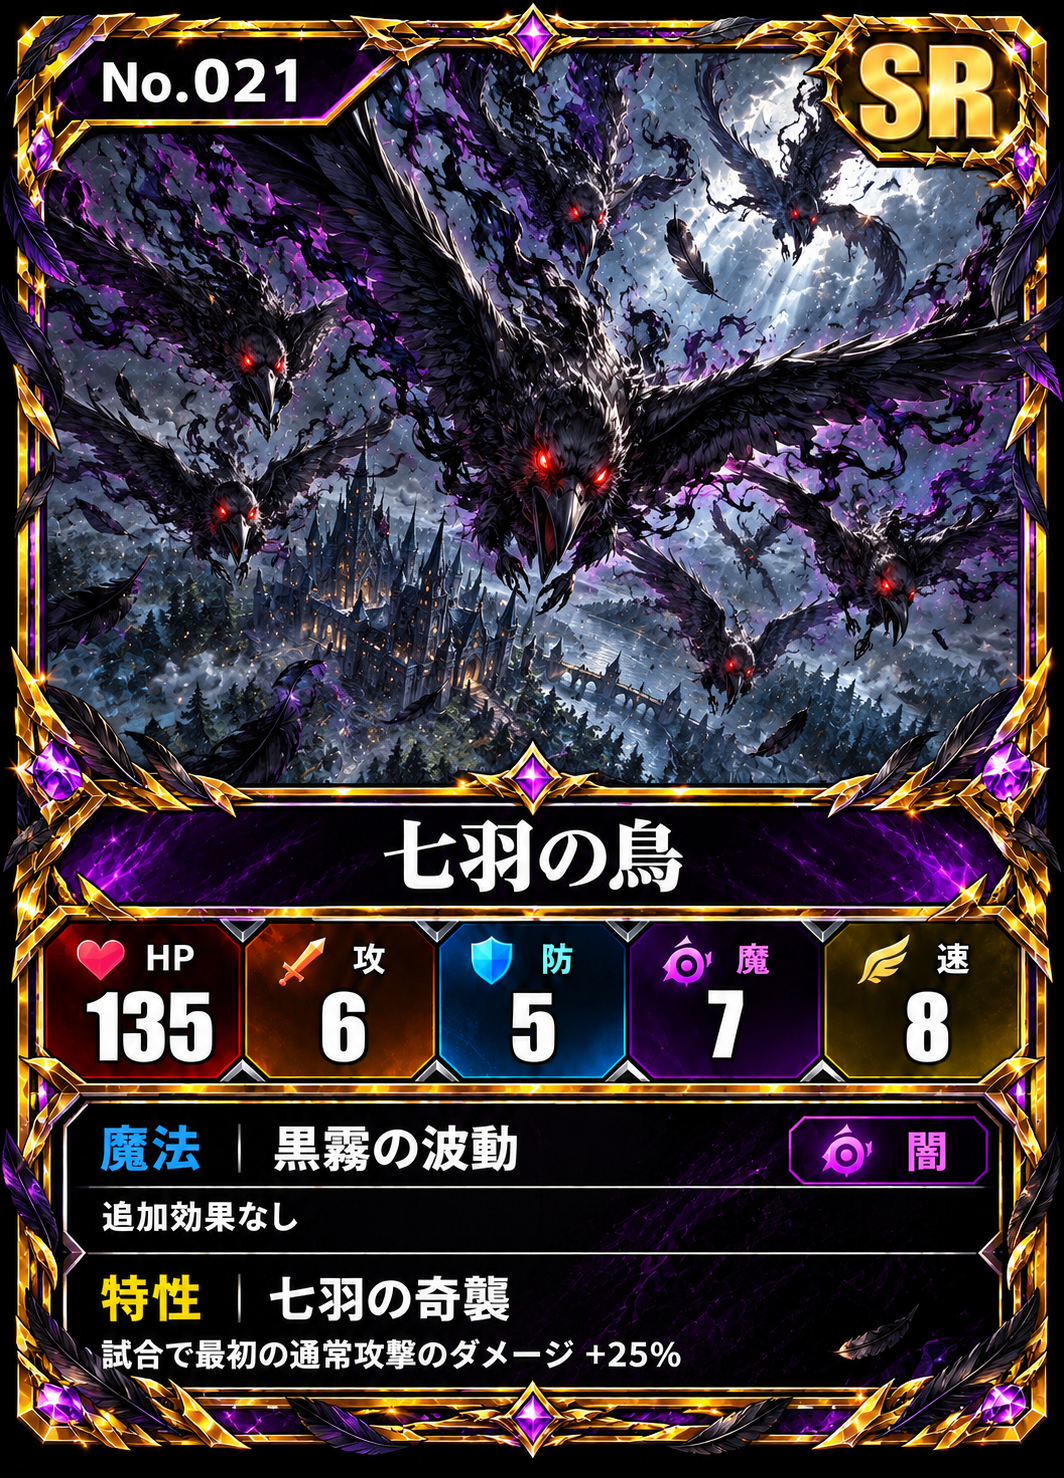
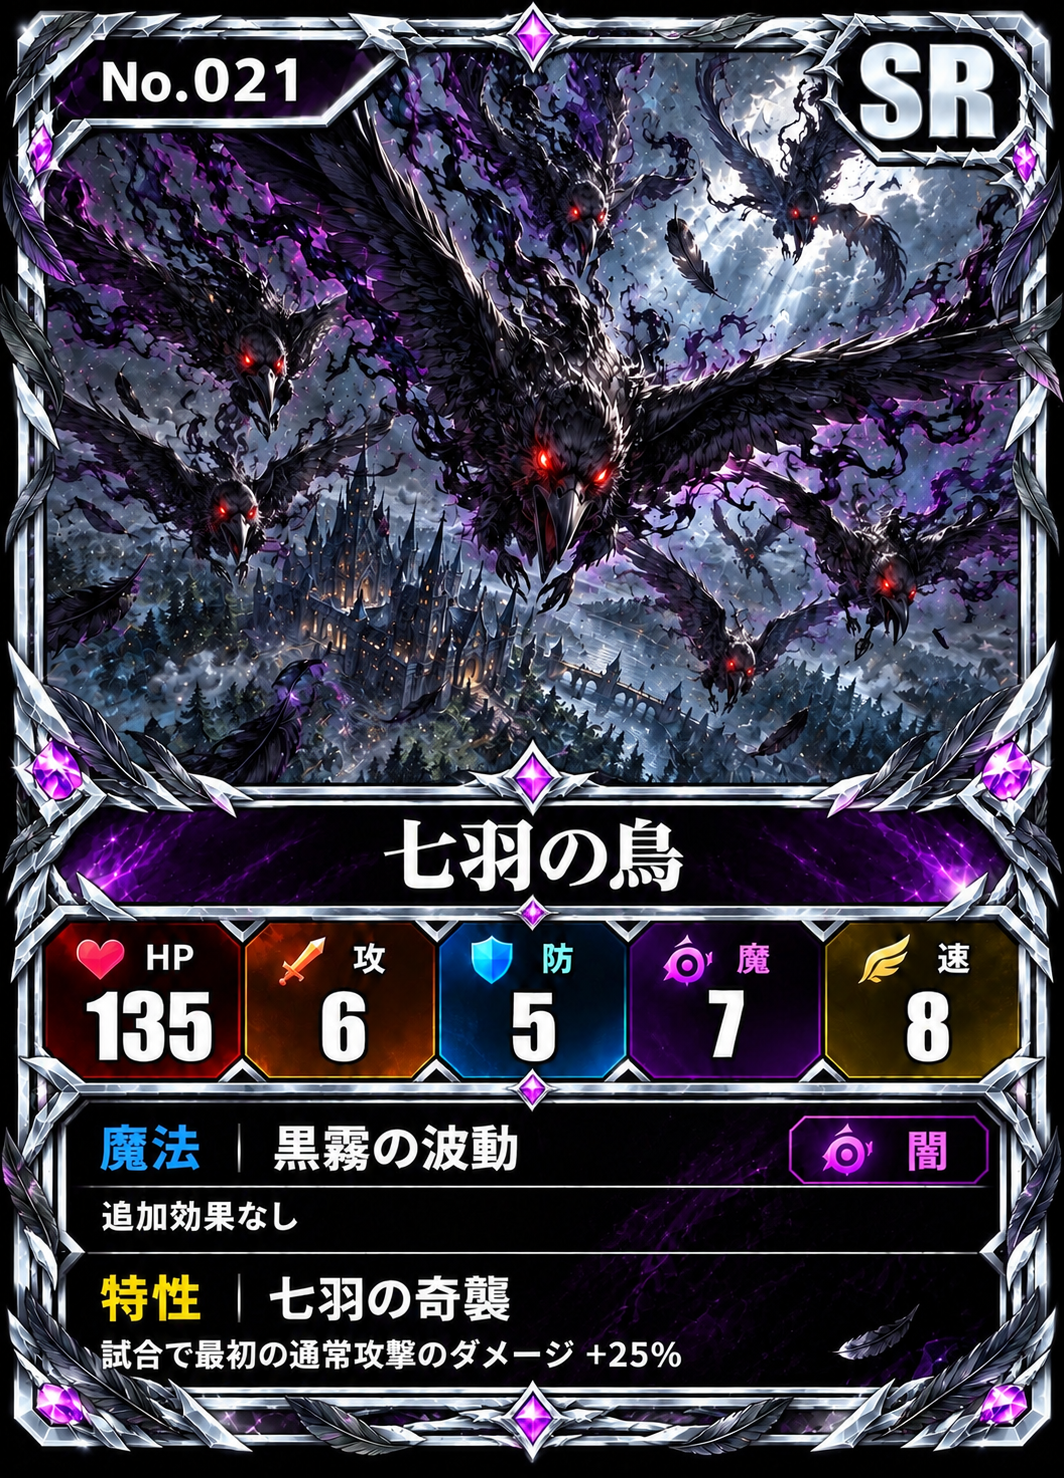
MYTHCLASH: No.021 七羽の鳥 を銀のわくの絵に差しかえ(前の絵は unused/)
Claude-Session: https://claude.ai/code/session_01MXithgTc5umkveoyZShZHQ

Changed region(s): [[0.0, 0.0, 1.0, 0.9959], [0.4032, 0.8403, 0.4962, 0.9026]]

diff --git a/docs/MYTHCLASH.md b/docs/MYTHCLASH.md
@@ -187,7 +187,7 @@
 - 絵がかぶらないように、カードごとに「写す広さ・カメラの高さ・動き・光の方向・主な色」の2〜3個を変えた構図の文を Claude が作る（企画者 2026-10-28）。
   - No.008 菓子牢の魔女：表どおり（(50%) も描いてあった）。
 - 届いたカード：No.001〜029・101。
-- 2026-10-29：これから描くSRのカードは、わくを銀色にする（企画者）。前に届いたSR（No.001・014・016・021）は金のわくのまま。No.028 は銀のわくの絵に差しかえた
+- 2026-10-29：これから描くSRのカードは、わくを銀色にする（企画者）。前に届いたSR（No.001・014・016）は金のわくのまま。No.021・028 は銀のわくの絵に差しかえた
 
 ### 名前を BLOOD TOWER に（2026-10-27）【確定】
 - 企画者「ストーリーじゃなくて BLOOD TOWER にしよう」→ モードえらびのボタンを「🏰 BLOOD TOWER」に。
